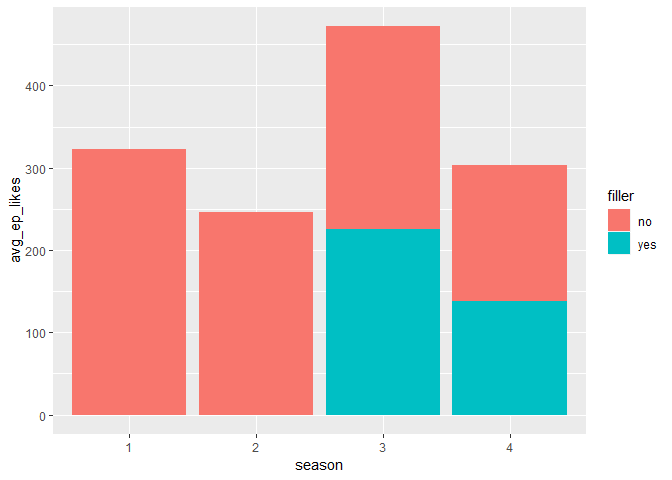
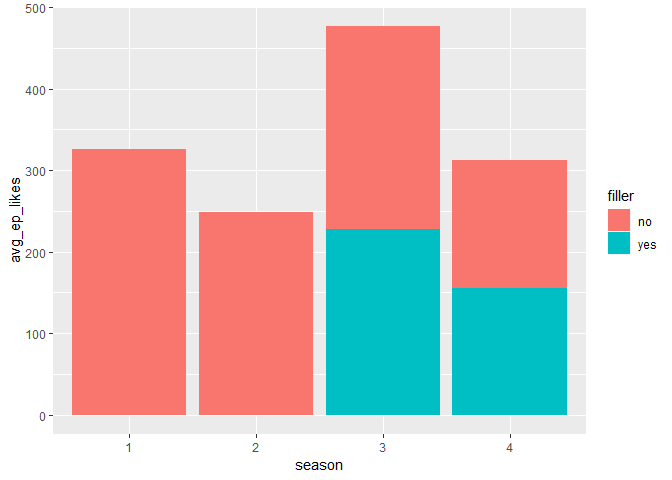
updating june 12 with segmentation by health messaging

diff --git a/webtoon_analysis.md b/webtoon_analysis.md
@@ -8,7 +8,7 @@ May 14, 2019
 First reading in the data (updated as of May 10, 2019 - this was run BEFORE episode \#55 had been posted):
 
 ``` r
-webtoons_data = read_csv(file = "./data/comments_may_10.csv")
+webtoons_data = read_csv(file = "./data/comments_june_12.csv")
 ```
 
     ## Warning: Missing column names filled in: 'X1' [1]
@@ -41,9 +41,9 @@ number_of_eps = webtoons_data %>%
   distinct(episode, .keep_all = TRUE)
 ```
 
-The total number of comments is 543.
+The total number of comments is 566.
 
-The total number of episodes is 54.
+The total number of episodes is 57.
 
 Now getting the number of comments per each episode:
 
@@ -70,11 +70,11 @@ num_eps %>%
 | Heck of a Start          |                    24|
 | Brunchy Brunch           |                    20|
 | Sometimes People SUCK!!! |                    18|
+| This Could Be Bad        |                    18|
 | FIGHT!!!!                |                    17|
 | HAPPY NEW YEAR!!!!!      |                    17|
 | Doctor Visit             |                    16|
 | Prayers                  |                    16|
-| This Could Be Bad        |                    16|
 | Further South            |                    15|
 
 Now getting the number of likes per each comment:
@@ -93,16 +93,16 @@ head(arrange(webtoons_data, desc(likes)), 10)
     ## # A tibble: 10 x 8
     ##    episode_num episode comment_txt userna~ likes reply likes_per_ep season
     ##          <dbl> <chr>   <chr>       <chr>   <int> <lgl>        <int> <chr> 
-    ##  1           1 Heck o~ i love ham~ sub<U+~   125 FALSE          540 1     
-    ##  2           1 Heck o~ omg is tha~ saphir~    93 FALSE          540 1     
-    ##  3           1 Heck o~ Hamilton :~ swirli~    82 FALSE          540 1     
-    ##  4          40 Soluti~ I'm glad s~ frowsy     65 FALSE          218 4     
-    ##  5          23 This C~ SHE HAD ON~ GrimmZ~    64 FALSE          246 2     
-    ##  6           6 Brunch~ wait what.~ happyc~    56 FALSE          308 1     
-    ##  7          30 You Ju~ Clearly ta~ coyowo~    56 FALSE          248 3     
-    ##  8          32 WORLD ~ honestly t~ just y~    50 FALSE          289 3     
-    ##  9           6 Brunch~ There will~ gillea~    49 FALSE          308 1     
-    ## 10          50 Tragedy "This one ~ pompou~    49 FALSE          149 4
+    ##  1           1 Heck o~ i love ham~ sub<U+~   125 FALSE          545 1     
+    ##  2           1 Heck o~ omg is tha~ saphir~    93 FALSE          545 1     
+    ##  3           1 Heck o~ Hamilton :~ swirli~    82 FALSE          545 1     
+    ##  4          40 Soluti~ I'm glad s~ frowsy     66 FALSE          221 4     
+    ##  5          23 This C~ SHE HAD ON~ GrimmZ~    65 FALSE          248 2     
+    ##  6          30 You Ju~ Clearly ta~ coyowo~    58 FALSE          251 3     
+    ##  7           6 Brunch~ wait what.~ happyc~    57 FALSE          312 1     
+    ##  8          50 Tragedy "This one ~ pompou~    54 FALSE          152 4     
+    ##  9           6 Brunch~ There will~ gillea~    51 FALSE          312 1     
+    ## 10          32 WORLD ~ honestly t~ just y~    51 FALSE          291 3
 
 Now getting the number of comments per each unique user:
 
@@ -123,19 +123,21 @@ num_users %>%
 
     ## Selecting by n
 
-    ## # A tibble: 10 x 2
+    ## # A tibble: 12 x 2
     ##    username                   number_of_comments
     ##    <chr>                                   <int>
     ##  1 gilleanfryingpan                           45
-    ##  2 sausage172000                              22
-    ##  3 AoiYeyi                                    21
+    ##  2 AoiYeyi                                    22
+    ##  3 sausage172000                              22
     ##  4 happycat(:                                 18
     ##  5 19danny15                                  16
     ##  6 Cheapthrill_Xo                             16
     ##  7 CopperMortar                               14
-    ##  8 "\xb0\x95Mariella\x95\xb0"                 12
+    ##  8 "\xb0\x95Mariella\x95\xb0"                 13
     ##  9 catberra                                   12
-    ## 10 RedtheGreyFox                              12
+    ## 10 "Johnna\x92s Way"                          12
+    ## 11 Mugly Mae                                  12
+    ## 12 RedtheGreyFox                              12
 
 -   Outputting table of top 10 episodes by number of episode likes
 
@@ -155,16 +157,16 @@ head(arrange(ep_likes, desc(likes_per_ep)), 10) %>%
 
 | episode                      |  likes\_per\_ep|
 |:-----------------------------|---------------:|
-| Heck of a Start              |             540|
-| Uh oh                        |             435|
-| Flash Back                   |             370|
-| Doctor Visit                 |             338|
-| Work It Out                  |             335|
-| Brunchy Brunch               |             308|
-| WORLD AIDS DAY!!!            |             289|
-| Rough Start                  |             279|
-| It Goes Down in the Bathroom |             267|
-| Ape S\#$%                    |             262|
+| Heck of a Start              |             545|
+| Uh oh                        |             439|
+| Flash Back                   |             373|
+| Doctor Visit                 |             342|
+| Work It Out                  |             338|
+| Brunchy Brunch               |             312|
+| WORLD AIDS DAY!!!            |             291|
+| Rough Start                  |             282|
+| It Goes Down in the Bathroom |             270|
+| Ape S\#$%                    |             265|
 
 Now a bunch of tables showing basic summary statistics for:
 
@@ -189,7 +191,7 @@ avg_num_comm
 
 |  mean\_comments\_per\_ep|  median\_comments\_per\_ep|  sd\_comments|
 |------------------------:|--------------------------:|-------------:|
-|                   10.056|                          9|         5.272|
+|                     9.93|                          8|         5.321|
 
 ``` r
 #stats of commentators
@@ -204,7 +206,7 @@ avg_user
 
 |  mean\_comments\_per\_user|  median\_comments\_per\_user|  sd\_comments|
 |--------------------------:|----------------------------:|-------------:|
-|                      2.828|                            1|         4.705|
+|                      2.903|                            1|         4.786|
 
 ``` r
 #stats of likes
@@ -219,7 +221,7 @@ avg_likes
 
 |  mean\_likes\_per\_comment|  median\_likes\_per\_comment|  sd\_likes|
 |--------------------------:|----------------------------:|----------:|
-|                      7.576|                            4|     11.791|
+|                      7.528|                            4|     11.785|
 
 ``` r
 #stats of total comment likes
@@ -236,7 +238,7 @@ avg_total_likes
 
 |  mean\_total\_likes|  median\_total\_likes|  sd\_total\_likes|
 |-------------------:|---------------------:|-----------------:|
-|              76.185|                  58.5|            66.315|
+|              74.754|                    57|            66.136|
 
 ``` r
 #stats of likes per episode (likes of episode - NOT comments)
@@ -252,7 +254,7 @@ avg_likes_per_ep
 
 |  mean\_likes\_per\_ep|  median\_likes\_per\_ep|  sd\_likes|
 |---------------------:|-----------------------:|----------:|
-|               235.611|                   243.5|     75.424|
+|               231.877|                     245|     78.863|
 
 ``` r
 #visualizations
@@ -295,10 +297,10 @@ likes_per_season %>%
 
 | season |  total\_likes|
 |:-------|-------------:|
-| 1      |          3878|
-| 2      |          2955|
-| 3      |          3143|
-| 4      |          2747|
+| 1      |          3918|
+| 2      |          2982|
+| 3      |          3176|
+| 4      |          3141|
 
 ``` r
 #visualization
@@ -320,10 +322,10 @@ avg_ep_likes_season %>%
 
 | season |  avg\_ep\_likes|
 |:-------|---------------:|
-| 1      |         323.167|
-| 2      |         246.250|
-| 3      |         241.769|
-| 4      |         161.588|
+| 1      |         326.500|
+| 2      |         248.500|
+| 3      |         244.308|
+| 4      |         157.050|
 
 ``` r
 #visualization
@@ -345,9 +347,9 @@ comments_per_season %>%
 | season |  total\_comments|
 |:-------|----------------:|
 | 1      |              132|
-| 2      |              121|
-| 3      |              154|
-| 4      |              136|
+| 2      |              128|
+| 3      |              159|
+| 4      |              147|
 
 ``` r
 #visualization
@@ -370,9 +372,9 @@ avg_ep_comments_season %>%
 | season |  avg\_ep\_comments|
 |:-------|------------------:|
 | 1      |             11.000|
-| 2      |             10.083|
-| 3      |             11.846|
-| 4      |              8.000|
+| 2      |             10.667|
+| 3      |             12.231|
+| 4      |              7.350|
 
 ``` r
 #visualization
@@ -389,9 +391,14 @@ filler_data = seasons %>%
   mutate(
     filler = ifelse(episode_num %in% 36:38, "yes",
                     ifelse(episode_num == 32, "yes",
-                           ifelse(episode_num == 54, "yes", "no")))
+                           ifelse(episode_num == 54:57, "yes", "no")))
   )
+```
 
+    ## Warning in episode_num == 54:57: longer object length is not a multiple of
+    ## shorter object length
+
+``` r
 #average comments for filler episodes versus for non-filler episodes
 avg_ep_comments_filler = filler_data %>% 
   count(season, episode_num, filler) %>% 
@@ -404,8 +411,8 @@ avg_ep_comments_filler %>%
 
 | filler |  avg\_ep\_comments|
 |:-------|------------------:|
-| no     |              9.776|
-| yes    |             12.800|
+| no     |              9.472|
+| yes    |              9.143|
 
 ``` r
 #visualization
@@ -427,8 +434,8 @@ avg_ep_likes_filler %>%
 
 | filler |  avg\_ep\_likes|
 |:-------|---------------:|
-| no     |         240.204|
-| yes    |         190.600|
+| no     |         235.077|
+| yes    |         198.600|
 
 ``` r
 #visualization
@@ -451,11 +458,11 @@ avg_comments_filler_season %>%
 | season | filler |  avg\_ep\_comments|
 |:-------|:-------|------------------:|
 | 1      | no     |             11.000|
-| 2      | no     |             10.083|
-| 3      | no     |             10.100|
+| 2      | no     |             10.667|
+| 3      | no     |             10.600|
 | 3      | yes    |             17.667|
-| 4      | no     |              8.333|
-| 4      | yes    |              5.500|
+| 4      | no     |              7.158|
+| 4      | yes    |              2.750|
 
 ``` r
 #visualization
@@ -477,12 +484,12 @@ avg_likes_filler_season %>%
 
 | season | filler |  avg\_ep\_likes|
 |:-------|:-------|---------------:|
-| 1      | no     |         323.167|
-| 2      | no     |         246.250|
-| 3      | no     |         246.700|
-| 3      | yes    |         225.333|
-| 4      | no     |         164.667|
-| 4      | yes    |         138.500|
+| 1      | no     |         326.500|
+| 2      | no     |         248.500|
+| 3      | no     |         249.400|
+| 3      | yes    |         227.333|
+| 4      | no     |         157.222|
+| 4      | yes    |         155.500|
 
 ``` r
 #visualization
@@ -490,6 +497,64 @@ ggplot(avg_likes_filler_season, aes(x = season, y = avg_ep_likes, fill = filler)
 ```
 
 ![](webtoon_analysis_files/figure-markdown_github/unnamed-chunk-7-4.png)
+
+### Comparing health messaging episodes to all other episodes
+
+Be aware that the labelling of health messaging episodes is hardcoded - to update this code for later scraping, you need to update the episodes included as health messaging.
+
+``` r
+#assigning "health" label to health messaging episodes
+health_data = seasons %>%  
+  mutate(
+    health = ifelse(episode_num %in% 54:56, "yes",
+                ifelse(episode_num == 51, "yes",
+                    ifelse(episode_num == 32, "yes", "no")))
+  )
+
+#average comments for health messaging episodes versus for all other episodes
+avg_ep_comments_health = health_data %>% 
+  count(season, episode_num, health) %>% 
+  group_by(health) %>% 
+  summarize(avg_ep_comments = mean(n)) 
+
+avg_ep_comments_health %>% 
+  knitr::kable(digits = 3)
+```
+
+| health |  avg\_ep\_comments|
+|:-------|------------------:|
+| no     |             10.173|
+| yes    |              7.400|
+
+``` r
+#visualization
+ggplot(avg_ep_comments_health, aes(x = health, y = avg_ep_comments, fill = health)) + geom_bar(stat = 'identity')
+```
+
+![](webtoon_analysis_files/figure-markdown_github/unnamed-chunk-8-1.png)
+
+``` r
+#average likes for health messaging episodes versus for all other episodes
+avg_ep_likes_health = health_data %>% 
+  distinct(episode_num, .keep_all = TRUE) %>% 
+  group_by(health) %>% 
+  summarize(avg_ep_likes = mean(likes_per_ep)) 
+
+avg_ep_likes_health %>% 
+  knitr::kable(digits = 3) 
+```
+
+| health |  avg\_ep\_likes|
+|:-------|---------------:|
+| no     |         239.192|
+| yes    |         155.800|
+
+``` r
+#visualization
+ggplot(avg_ep_likes_health, aes(x = health, y = avg_ep_likes, fill = health)) + geom_bar(stat = 'identity')
+```
+
+![](webtoon_analysis_files/figure-markdown_github/unnamed-chunk-8-2.png)
 
 ### Sentiment analysis
 
@@ -536,7 +601,7 @@ ggplot(comment_word_sentiments,
         axis.ticks.x = element_blank()) 
 ```
 
-![](webtoon_analysis_files/figure-markdown_github/unnamed-chunk-8-1.png)
+![](webtoon_analysis_files/figure-markdown_github/unnamed-chunk-9-1.png)
 
 Most positive comment:
 
